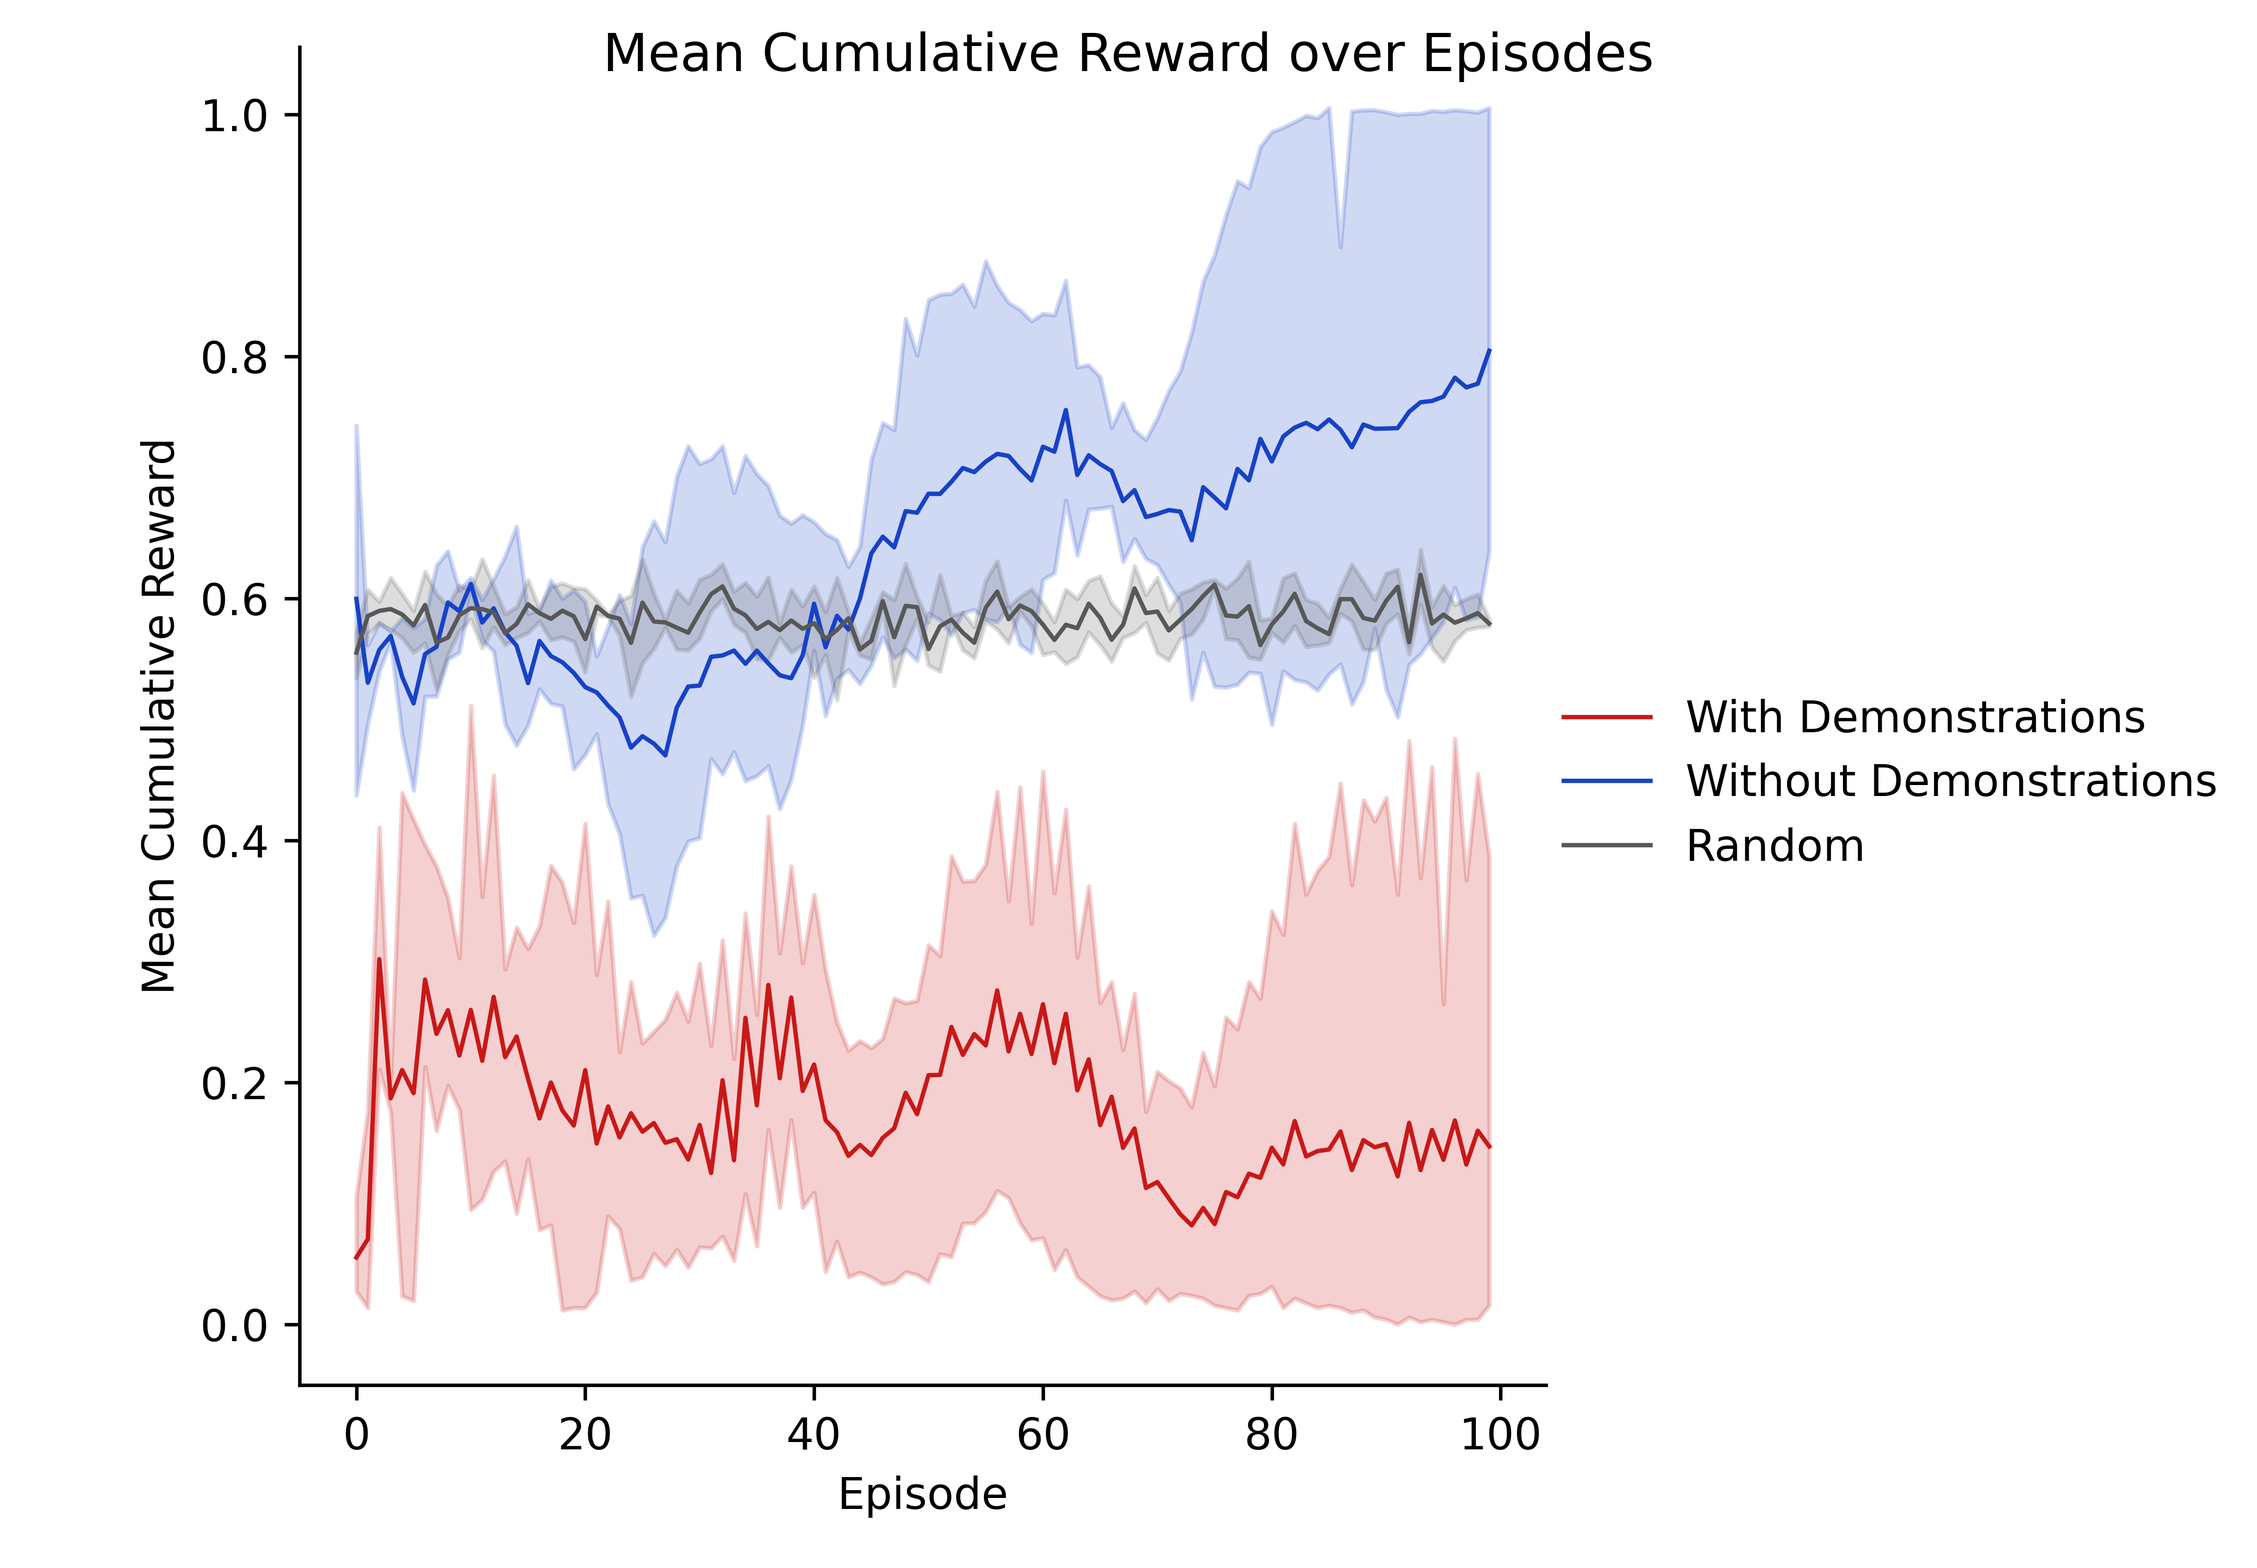
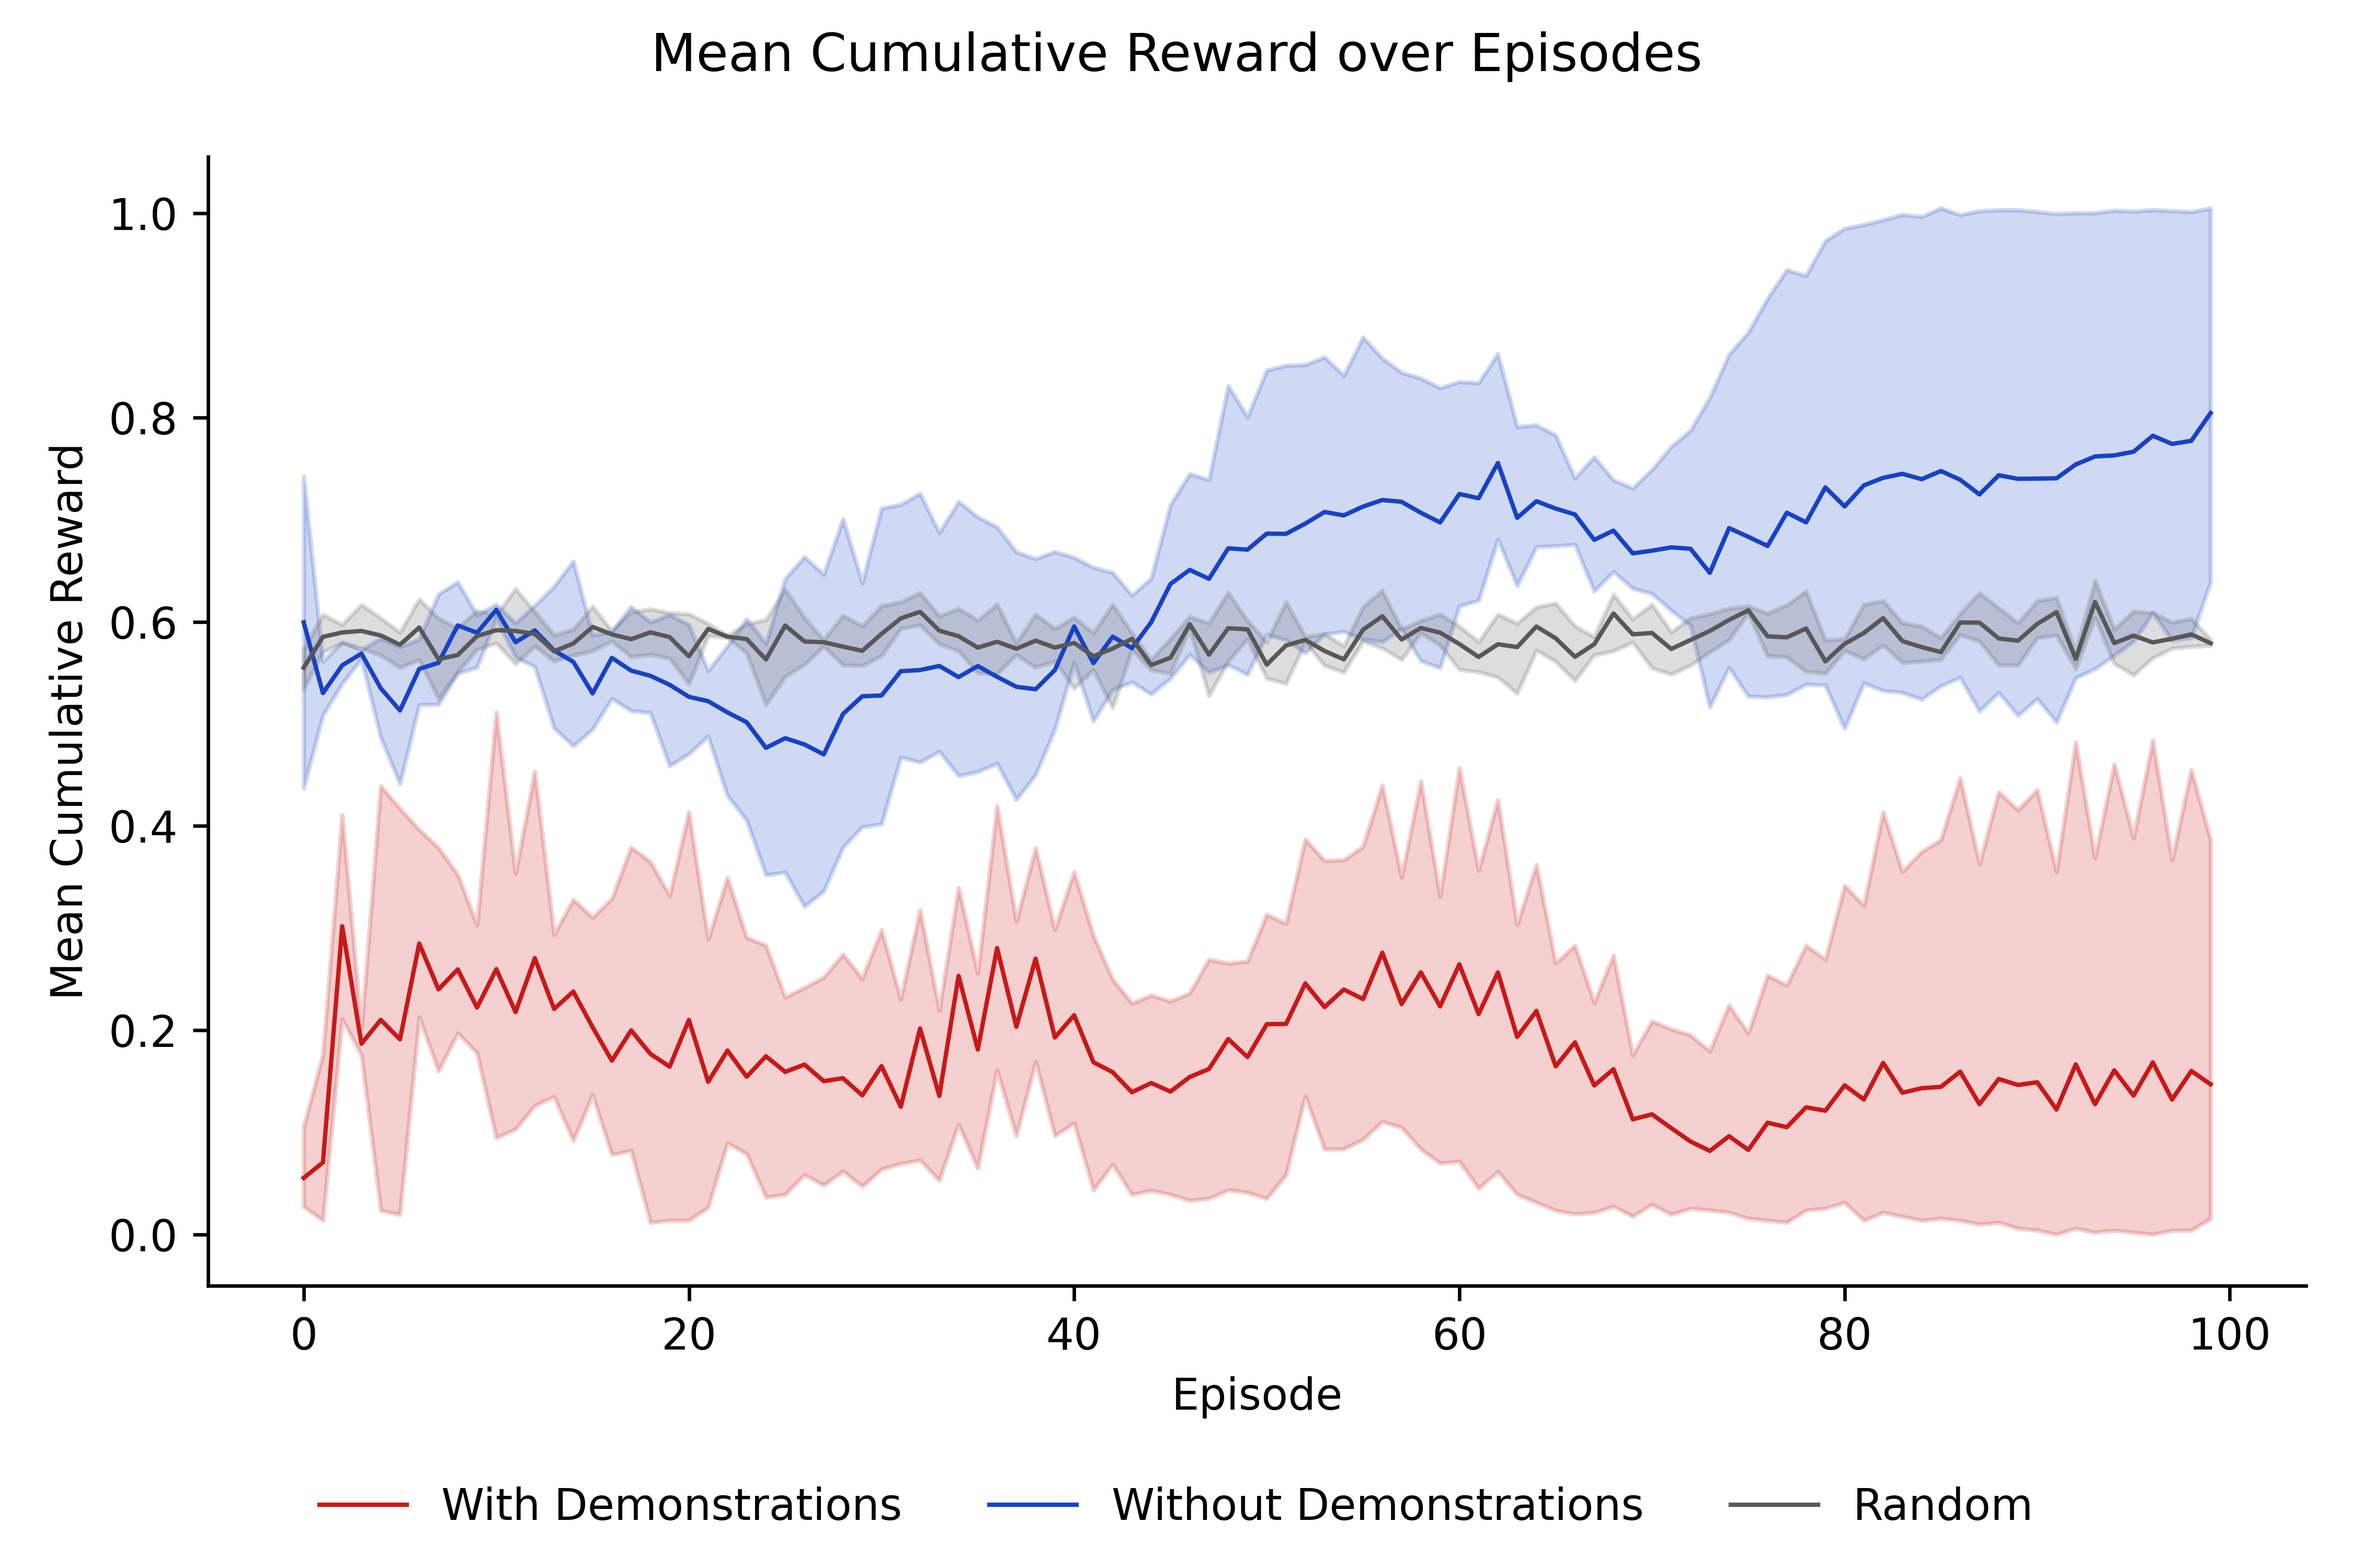
Adjusted plot layout

diff --git a/gen_rl_graphs/gen_rl_graphs.py b/gen_rl_graphs/gen_rl_graphs.py
@@ -70,6 +70,14 @@ def show_plot(
         y_var='Mean Cumulative Reward',
     )
     
+    plot.figure.set_figwidth(7.5)
+    
+    plot.figure.tight_layout()
+
+    sns.move_legend(plot, 'lower center', ncol=3)
+    
+    plot.figure.subplots_adjust(top=0.9, bottom=0.18)
+    
     plot.figure.suptitle('Mean Cumulative Reward over Episodes')
 
     file_path = os.path.dirname(__file__) + '/' + filename
